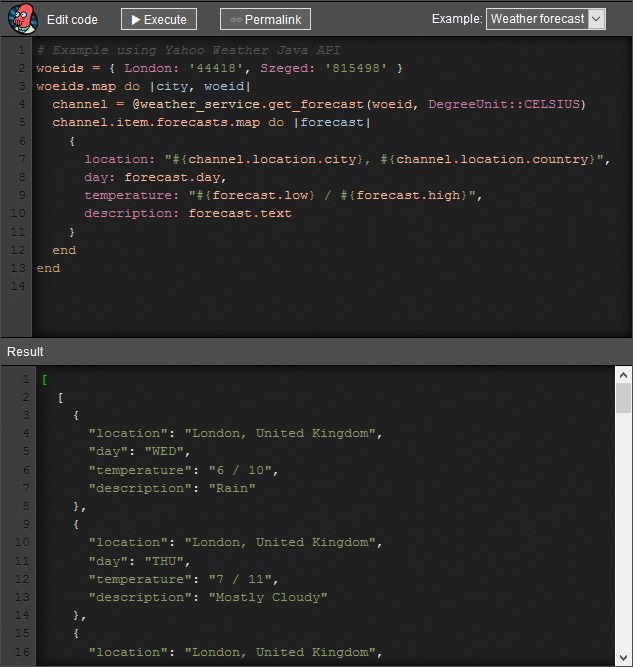
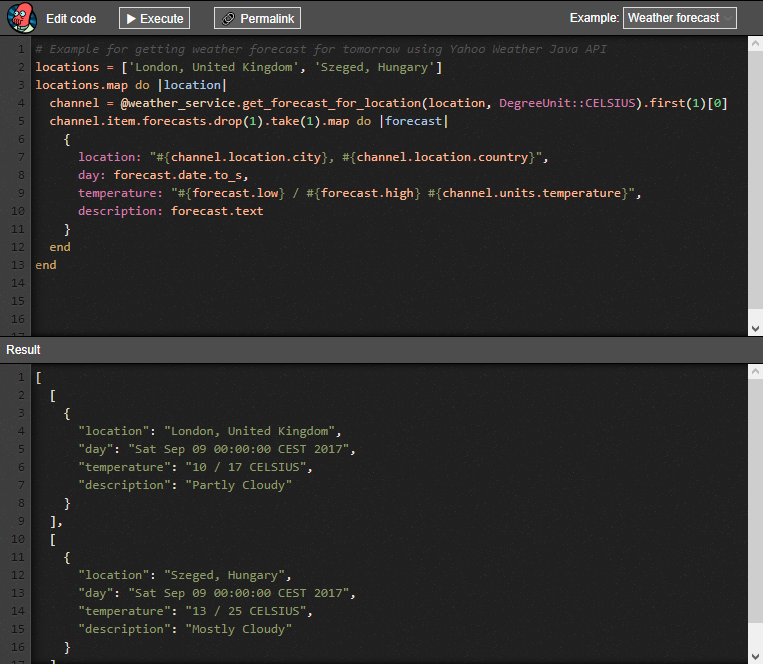
Updated example script

diff --git a/src/main/resources/public/examples/weather_forecast.rb b/src/main/resources/public/examples/weather_forecast.rb
@@ -1,12 +1,12 @@
-# Example using Yahoo Weather Java API
-woeids = { London: '44418', Szeged: '815498' }
-woeids.map do |city, woeid|
-  channel = @weather_service.get_forecast(woeid, DegreeUnit::CELSIUS)
-  channel.item.forecasts.map do |forecast|
+# Example for getting weather forecast for tomorrow using Yahoo Weather Java API
+locations = ['London, United Kingdom', 'Szeged, Hungary']
+locations.map do |location|
+  channel = @weather_service.get_forecast_for_location(location, DegreeUnit::CELSIUS).first(1)[0]
+  channel.item.forecasts.drop(1).take(1).map do |forecast|
     {
       location: "#{channel.location.city}, #{channel.location.country}",
-      day: forecast.day,
-      temperature: "#{forecast.low} / #{forecast.high}",
+      day: forecast.date.to_s,
+      temperature: "#{forecast.low} / #{forecast.high} #{channel.units.temperature}",
       description: forecast.text
     }
   end

diff --git a/src/main/java/zoidberg/controller/AbstractController.java b/src/main/java/zoidberg/controller/AbstractController.java
@@ -26,12 +26,13 @@ public abstract class AbstractController {
     }
 
     protected ScriptletResult runScriptlet(String code) {
-        Object result = null;
+        Object result;
         try {
-            ScriptingContainer scriptingContainer = new ScriptingContainer(LocalContextScope.THREADSAFE, LocalVariableBehavior.PERSISTENT);
+            ScriptingContainer scriptingContainer = new ScriptingContainer(LocalContextScope.THREADSAFE, LocalVariableBehavior.TRANSIENT);
             scriptingContainer.clear();
             putExposedObjects(scriptingContainer);
             runInitScriptlet(scriptingContainer);
+
             result = scriptingContainer.runScriptlet(code);
             scriptingContainer.terminate();
         } catch (Exception e) {

diff --git a/src/main/java/zoidberg/controller/weather/WeatherController.java b/src/main/java/zoidberg/controller/weather/WeatherController.java
@@ -25,8 +25,8 @@ public class WeatherController extends AbstractController {
     ), "\n");
 
     @RequestMapping("/weather")
-    public @ResponseBody
-    ScriptletResult handleRequest(@RequestParam(value = "code", required = true, defaultValue = "{ weather_service_available: !weatherService.nil? }") String code) {
+    @ResponseBody
+    public ScriptletResult handleRequest(@RequestParam(defaultValue = "{ weather_service_available: !@weather_service.nil? }") String code) {
         return runScriptlet(code);
     }
 
